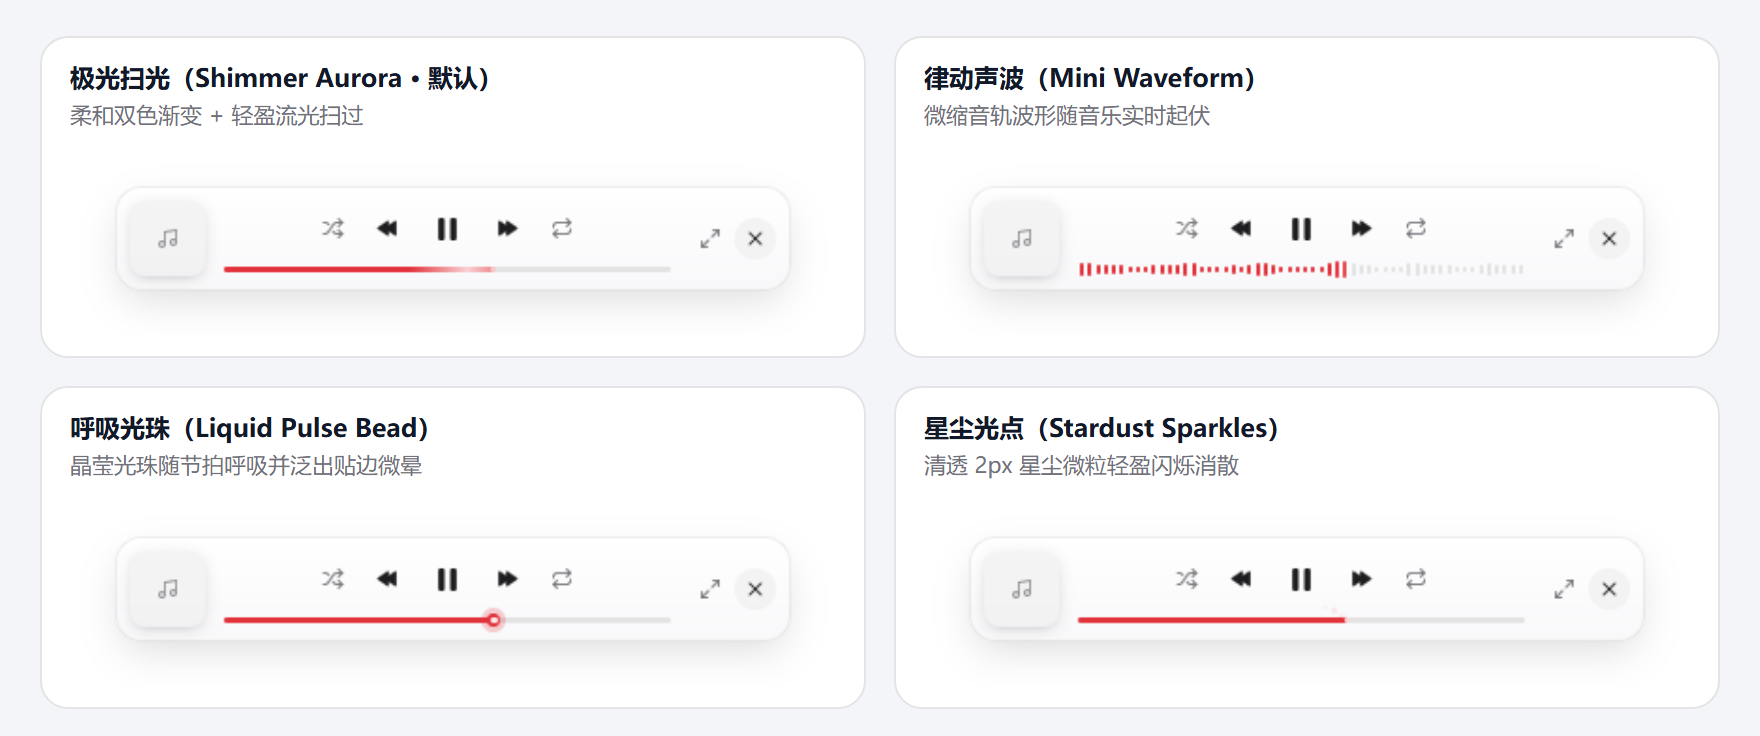
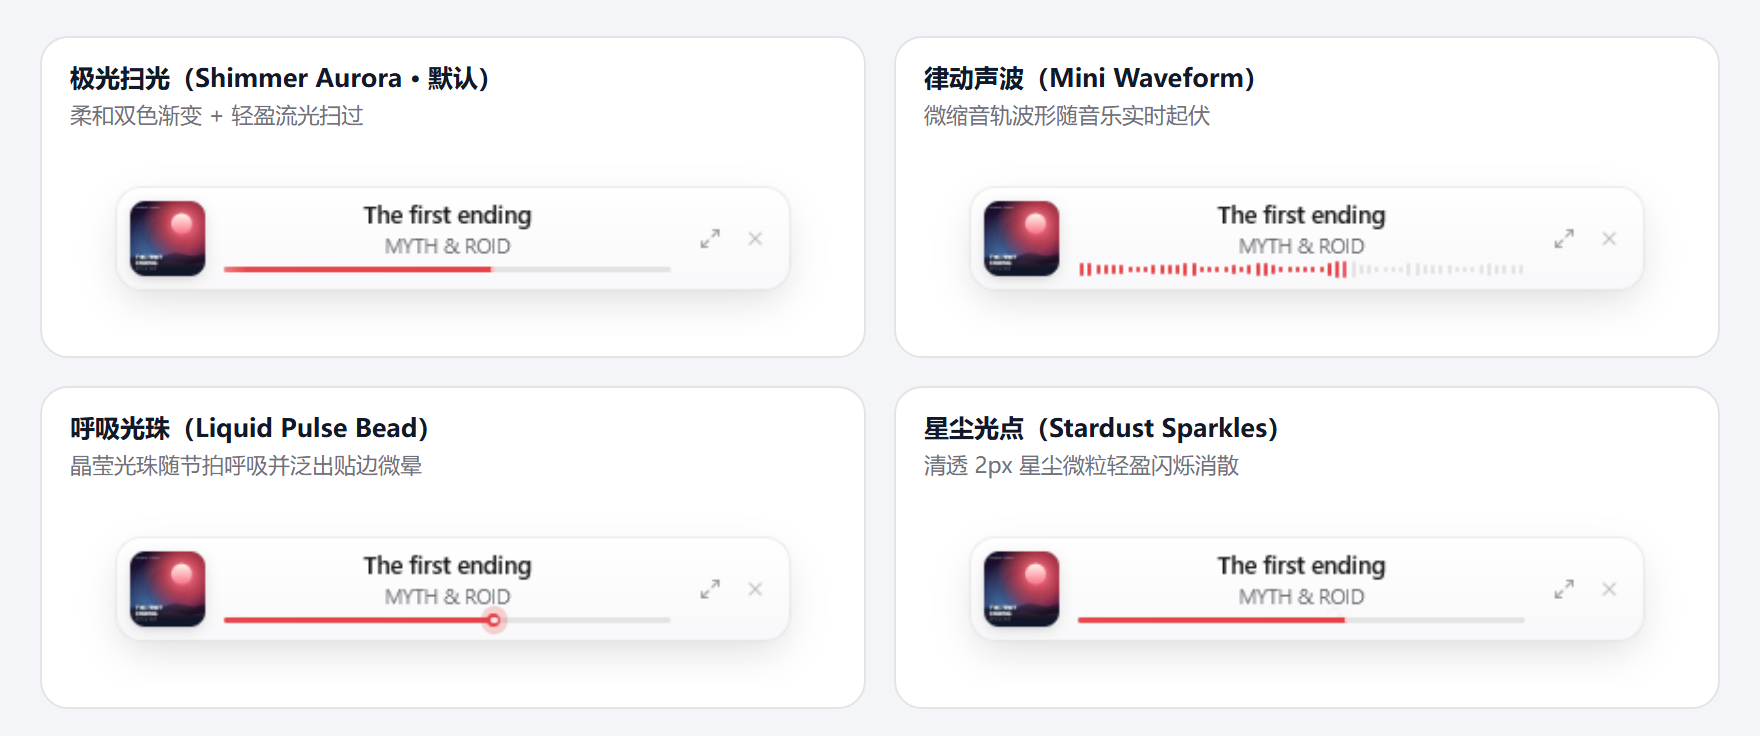
docs: render README mini player and progress style screenshots with full album artwork

diff --git a/internal/app/ui_mini_test.go b/internal/app/ui_mini_test.go
@@ -18,6 +18,17 @@ import (
 
 func testCoverBitmap(t *testing.T) *ui.Bitmap {
 	t.Helper()
+	if p := os.Getenv("MINI_SNAP_COVER"); p != "" {
+		b, err := os.ReadFile(p)
+		if err != nil {
+			t.Fatalf("read MINI_SNAP_COVER: %v", err)
+		}
+		bmp, err := ui.DecodeBitmap(b)
+		if err != nil {
+			t.Fatalf("decode MINI_SNAP_COVER: %v", err)
+		}
+		return bmp
+	}
 	img := image.NewRGBA(image.Rect(0, 0, 120, 120))
 	for y := 0; y < 120; y++ {
 		for x := 0; x < 120; x++ {
@@ -88,7 +99,12 @@ func TestMiniViewsRenderAndInteractions(t *testing.T) {
 	a := newTestApp()
 	a.settings = defaultSettings()
 	a.settings.MiniPlayer = true
-	a.pl.Cue([]spotify.Track{{ID: "t1", Name: "The first ending", Artists: []spotify.Artist{{Name: "MYTH & ROID"}}, Duration: 240000}})
+	coverURL := "https://example.invalid/cover.png"
+	bmp := testCoverBitmap(t)
+	for _, sz := range []int{120, 160, 240, 460} {
+		a.art.art[spotify.Sized(coverURL, sz)] = &artwork{bmp: bmp, tint: ui.Hex("#e5484d"), used: time.Now()}
+	}
+	a.pl.Cue([]spotify.Track{{ID: "t1", Name: "The first ending", Artists: []spotify.Artist{{Name: "MYTH & ROID"}}, Album: spotify.Album{PicURL: coverURL}, Duration: 240000}})
 	a.pl.Hold(145 * time.Second)
 
 	snapDir := os.Getenv("MINI_SNAP_DIR")
@@ -119,8 +135,8 @@ func TestMiniViewsRenderAndInteractions(t *testing.T) {
 	}
 	saveSnap("mini-bar-light-rest.png", tb)
 
-	// Hover center of compact bar -> transport controls crossfade in.
-	tb.Move(float32(bw)/2, float32(bh)/2)
+	// Hover inside compact bar (avoiding center button so icons stay crisp) -> transport controls crossfade in.
+	tb.Move(float32(bw)/2-96, float32(bh)/2)
 	tb.Advance(220 * time.Millisecond)
 	tb.Frame()
 	if _, ok := tb.Find("播放/暂停"); !ok {
@@ -167,13 +183,6 @@ func TestMiniViewsRenderAndInteractions(t *testing.T) {
 	}
 
 	// 2. Apple Music Split Cover Card: syncs with app Dark/Light theme + always-accessible transport + hover toolbar.
-	// Also populate a real square cover bitmap to verify rounded top corners (no sharp 90° bleed).
-	coverURL := "https://example.invalid/cover.png"
-	bmp := testCoverBitmap(t)
-	a.art.art[spotify.Sized(coverURL, 460)] = &artwork{bmp: bmp, tint: ui.Hex("#e5484d"), used: time.Now()}
-	a.art.art[spotify.Sized(coverURL, 120)] = &artwork{bmp: bmp, tint: ui.Hex("#e5484d"), used: time.Now()}
-	a.pl.Cue([]spotify.Track{{ID: "t1", Name: "The first ending", Artists: []spotify.Artist{{Name: "MYTH & ROID"}}, Album: spotify.Album{PicURL: coverURL}, Duration: 240000}})
-	a.pl.Hold(145 * time.Second)
 	a.settings.MiniPlayer = true
 	a.settings.MiniStyle = miniStyleCard
 	cw, ch := miniWindowSize(miniStyleCard)
@@ -245,6 +254,8 @@ func TestMiniViewsRenderAndInteractions(t *testing.T) {
 	}
 	a.settings.MiniStyle = miniStyleBar
 	tb.SetDark(false)
+	tb.Move(2, 2)
+	tb.Advance(240 * time.Millisecond)
 	for _, opt := range progressStyleOptions {
 		a.setProgressStyle(opt.id)
 		if a.settings.effectiveProgressStyle() != opt.id {
